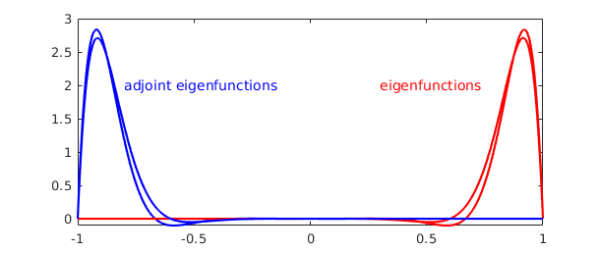
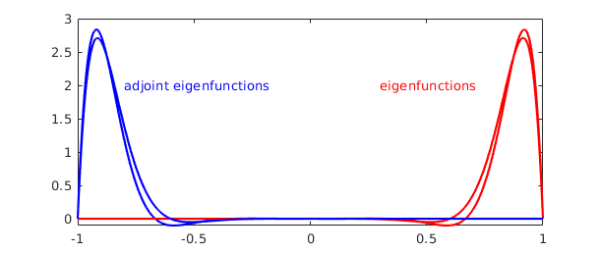
revised Adjoints example

Changed region(s): [[0.21, 0.3043, 0.48, 0.3874], [0.63, 0.3043, 0.81, 0.3597]]

diff --git a/examples/ode-linear/img/Adjoints.html b/examples/ode-linear/img/Adjoints.html
@@ -165,15 +165,14 @@ Ls = adjoint(L);
    -0.0000   -0.0000    0.0000    0.0000   -0.0000    0.3424
 </pre>Let's plot the first two eigenfunctions of $L$ and of $L^\ast$. Note that the curves are symmetric about the origin.
 
-<pre class="mcode-input">CO = 'color'; FS = 'fontsize';
-for ii = 1:2
+<pre class="mcode-input">for ii = 1:2
     v = V{ii}; if v(.9) &lt; 0, v = -v; end
     plot(v,'r'), hold on
     vs = Vs{ii}; if vs(-.9) &lt; 0, vs = -vs; end
     plot(vs,'b')
 end
-text(-.8,2,'adjoint eigenfunctions',CO,'b',FS,14)
-text(.3,2,'eigenfunctions',CO,'r',FS,14)
+text(-.8,2,'adjoint eigenfunctions','color','b')
+text(.3,2,'eigenfunctions','color','r')
 shg</pre><img src="img/Adjoints_01.png" class="figure" alt="">
 
 The first eigenfunction is very far from orthogonal to the second --- in fact, they are nearly the same:

diff --git a/examples/ode-linear/Adjoints.html b/examples/ode-linear/Adjoints.html
@@ -234,15 +234,14 @@ Ls = adjoint(L);
 </pre>
 
 <p>Let's plot the first two eigenfunctions of $L$ and of $L^\ast$. Note that the curves are symmetric about the origin.</p>
-<pre class="mcode-input">CO = 'color'; FS = 'fontsize';
-for ii = 1:2
+<pre class="mcode-input">for ii = 1:2
     v = V{ii}; if v(.9) &lt; 0, v = -v; end
     plot(v,'r'), hold on
     vs = Vs{ii}; if vs(-.9) &lt; 0, vs = -vs; end
     plot(vs,'b')
 end
-text(-.8,2,'adjoint eigenfunctions',CO,'b',FS,14)
-text(.3,2,'eigenfunctions',CO,'r',FS,14)
+text(-.8,2,'adjoint eigenfunctions','color','b')
+text(.3,2,'eigenfunctions','color','r')
 shg</pre>
 
 <p><img src="img/Adjoints_01.png" class="figure" alt=""></p>

diff --git a/index.html b/index.html
@@ -273,5 +273,5 @@ plot(minx(1),minx(2),'.w')
     <script type="text/javascript" src="/js/config.js"></script>
     <script type="text/javascript" src="/js/jquery.flexslider-min.js"></script>
   </body>
-<!-- Compiled on Friday, 21 June 2019 at 14:48. -->
+<!-- Compiled on Friday, 21 June 2019 at 14:54. -->
 </html>

diff --git a/examples/ode-linear/Adjoints.m b/examples/ode-linear/Adjoints.m
@@ -134,15 +134,14 @@ Vs'*V
 % Let's plot the first two eigenfunctions of $L$ and of $L^\ast$.
 % Note that the curves are symmetric about the origin. 
 
-CO = 'color'; FS = 'fontsize';
 for ii = 1:2
     v = V{ii}; if v(.9) < 0, v = -v; end
     plot(v,'r'), hold on  
     vs = Vs{ii}; if vs(-.9) < 0, vs = -vs; end
     plot(vs,'b')      
 end
-text(-.8,2,'adjoint eigenfunctions',CO,'b',FS,14)
-text(.3,2,'eigenfunctions',CO,'r',FS,14)
+text(-.8,2,'adjoint eigenfunctions','color','b')
+text(.3,2,'eigenfunctions','color','r')
 shg
 
 %%
